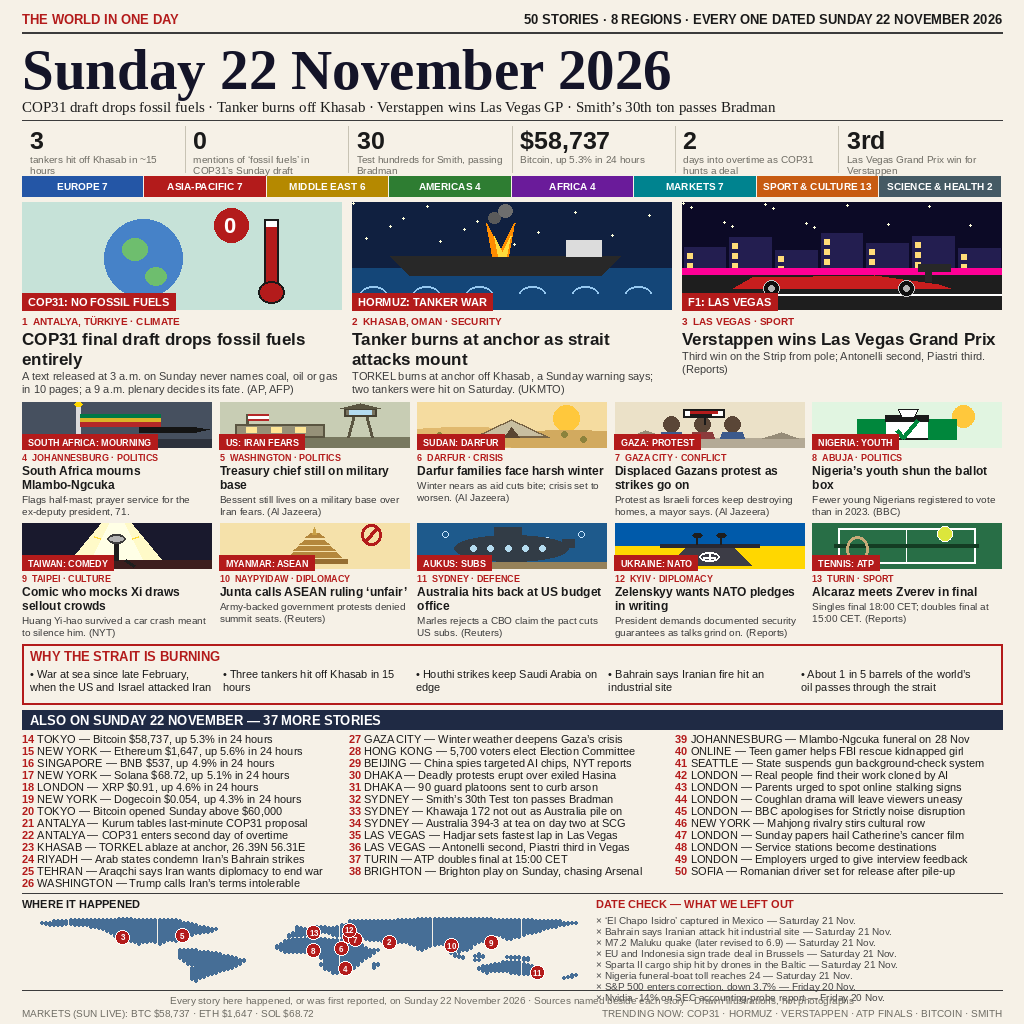
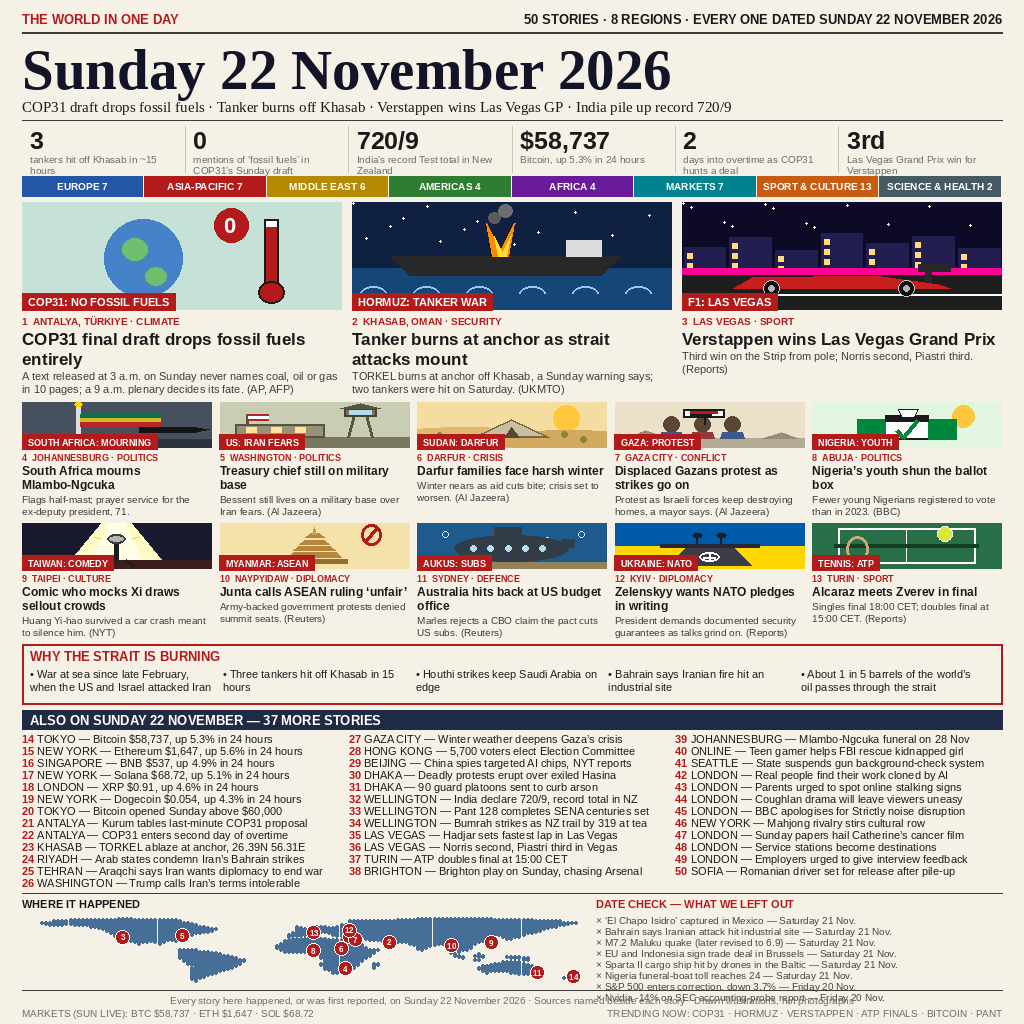
Micro-fix: correct F1 podium (Norris 2nd, Piastri 3rd); replace Jan-2023 Smith items with verified Wellington Test stories

diff --git a/main.ts b/main.ts
@@ -7,7 +7,7 @@
 //   mkdir -p out && MAKEFUN_OUTPUT_DIR=out node main.ts
 //
 // Verified 22 Nov 2026: two runs of main.ts produce byte-identical
-// output matching entry.png (sha256 5cb44589...).
+// output matching entry.png (sha256 d04ffb16...).
 
 import { copyFileSync } from 'node:fs';
 import { join } from 'node:path';

diff --git a/stories.py b/stories.py
@@ -5,6 +5,11 @@
 # robots, FinCEN, Fed, SoftBank, Saturday sport) — all replaced below
 # with stories verified as Sunday 22 Nov 2026 (UTC) from Reuters, AP,
 # BBC, Al Jazeera, NYT, Guardian, Cricbuzz, CoinGecko and UKMTO.
+# Micro-fix in a later session: F1 podium corrected (Norris 2nd, Piastri
+# 3rd, Antonelli 4th — RacingNews365/f1headline/OneRacing); the
+# Smith/Khawaja Sydney items turned out to be January 2023, replaced
+# with verified Wellington Test stories from Sunday 22 Nov 2026
+# (myKhel bulletin, IANS, ANI).
 # Written by hand in this session; no file was copied in.
 
 DAY_TITLE = "Sunday 22 November 2026"
@@ -15,14 +20,14 @@ SUBHEAD = [
     "COP31 draft drops fossil fuels",
     "Tanker burns off Khasab",
     "Verstappen wins Las Vegas GP",
-    "Smith\u2019s 30th ton passes Bradman",
+    "India pile up record 720/9",
 ]
 
 # (big number, small label)
 STATS = [
     ("3", "tankers hit off Khasab in ~15 hours"),
     ("0", "mentions of \u2018fossil fuels\u2019 in COP31\u2019s Sunday draft"),
-    ("30", "Test hundreds for Smith, passing Bradman"),
+    ("720/9", "India\u2019s record Test total in New Zealand"),
     ("$58,737", "Bitcoin, up 5.3% in 24 hours"),
     ("2", "days into overtime as COP31 hunts a deal"),
     ("3rd", "Las Vegas Grand Prix win for Verstappen"),
@@ -68,7 +73,7 @@ LEADS = [
         "place": "LAS VEGAS",
         "beat": "SPORT",
         "headline": "Verstappen wins Las Vegas Grand Prix",
-        "dek": "Third win on the Strip from pole; Antonelli second, Piastri third. "
+        "dek": "Third win on the Strip from pole; Norris second, Piastri third. "
                "(Reports)",
         "ill": "vegas",
     },
@@ -190,11 +195,11 @@ ALSO = [
     (29, "BEIJING", "China spies targeted AI chips, NYT reports"),
     (30, "DHAKA", "Deadly protests erupt over exiled Hasina"),
     (31, "DHAKA", "90 guard platoons sent to curb arson"),
-    (32, "SYDNEY", "Smith\u2019s 30th Test ton passes Bradman"),
-    (33, "SYDNEY", "Khawaja 172 not out as Australia pile on"),
-    (34, "SYDNEY", "Australia 394-3 at tea on day two at SCG"),
+    (32, "WELLINGTON", "India declare 720/9, record total in NZ"),
+    (33, "WELLINGTON", "Pant 128 completes SENA centuries set"),
+    (34, "WELLINGTON", "Bumrah strikes as NZ trail by 319 at tea"),
     (35, "LAS VEGAS", "Hadjar sets fastest lap in Las Vegas"),
-    (36, "LAS VEGAS", "Antonelli second, Piastri third in Vegas"),
+    (36, "LAS VEGAS", "Norris second, Piastri third in Vegas"),
     (37, "TURIN", "ATP doubles final at 15:00 CET"),
     (38, "BRIGHTON", "Brighton play on Sunday, chasing Arsenal"),
     (39, "JOHANNESBURG", "Mlambo-Ngcuka funeral on 28 Nov"),
@@ -247,6 +252,7 @@ PINS = [
     ("SYDNEY", 151.2, -33.9),
     ("KYIV", 30.5, 50.4),
     ("TURIN", 7.7, 45.1),
+    ("WELLINGTON", 174.8, -41.3),
 ]
 
 FOOTER_SOURCES = (
@@ -256,5 +262,5 @@ FOOTER_SOURCES = (
 FOOTER_MARKETS = "MARKETS (SUN LIVE): BTC $58,737 \u00b7 ETH $1,647 \u00b7 SOL $68.72"
 FOOTER_TRENDING = (
     "TRENDING NOW: COP31 \u00b7 HORMUZ \u00b7 VERSTAPPEN \u00b7 ATP FINALS \u00b7 "
-    "BITCOIN \u00b7 SMITH"
+    "BITCOIN \u00b7 PANT"
 )
